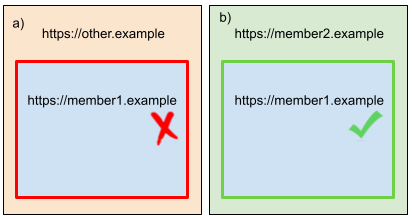
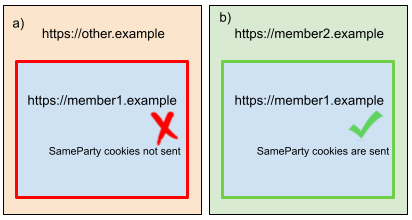
Remove mentions of storage; format URLs; tweak image.

Changed region(s): [[0.6117, 0.6545, 0.9612, 0.7091], [0.1165, 0.6545, 0.4369, 0.7091]]

diff --git a/README.md b/README.md
@@ -120,17 +120,19 @@ First-Party Sets is a proposal to standardize a mechanism that solves this issue
 In support of the various browser privacy models, first-party sets only control when embedded content that would otherwise be considered third-party can access its own state. Examples:
 
 -   Sites may annotate individual cookies to be sent across same-party, cross-domain contexts by using the proposed [SameParty cookie attribute](https://github.com/cfredric/sameparty).
--   An iframe’s access to its own storage should be allowed when embedded on a site within the same first-party set. For example, this would allow a `https://b.example` iframe within `https://a.example` to access its own `https://b.example` databases, which would otherwise be restricted.
 
 To illustrate the above use cases, we'll suppose that https://member1.example and https://member2.example are in the same first-party set, and consider the following two pages.
 
 ![Cross-party and same-party embeddings](images/party_embeddings.png)
 
-The first page, case *a*, is hosted on a third-party domain (https://other.example) and embeds an iframe from https://member1.example. We say that this iframe is in a *cross-party context*, since the top-level frame's domain is not in the same first-party set as the embedded iframe's domain. The second page, case *b*, is hosted on https://member2.example, and also embeds an iframe from https://member1.example. We say that this iframe is in a *same-party context*, since the top-level frame's domain is in the same first-party set as the iframe's domain. The aforementioned uses of first-party sets aim to grant a site access to its own state (e.g. cookies or storage) when in a same-party context (case *b*), while blocking access when in a cross-party context (case *a*).
+On browsers where cross-site tracking protections are enabled, the first page, case *a*, is hosted on a third-party domain (`https://other.example`) and embeds an iframe from `https://member1.example`. We say that this iframe is in a *cross-party context*, since the top-level frame's domain is not in the same first-party set as the embedded iframe's domain. The second page, case *b*, is hosted on `https://member2.example`, and also embeds an iframe from `https://member1.example`. We say that this iframe is in a *same-party context*, since the top-level frame's domain is in the same first-party set as the iframe's domain. The aforementioned uses of first-party sets aim to grant a site access to its own state (e.g. cookies) when in a same-party context (case *b*), while blocking access when in a cross-party context (case *a*).
 
-Note that First-Party Sets does *not* grant access to one domain's state to any other domain, regardless of the context, in this example. I.e., neither https://other.example nor https://member2.example ever have access to https://member1.example's cookies or storage.
+* In case *a*, `https://member1.example`'s `SameParty` cookie is *not* sent in the iframe's subresource request, since the iframe is in a cross-party context.
+* In case *b*, `https://member1.example`'s `SameParty` cookie *is* sent in the iframe's subresource request, since the iframe is in a same-party context.
 
-The above example (where access to a domain's own cookies/storage is granted when embedded in certain domains, but is disallowed when embedded in others) is not possible without a proposal like First-Party Sets.
+Note that First-Party Sets does *not* grant access to one domain's state to any other domain, regardless of the context, in this example. I.e., neither `https://other.example` nor `https://member2.example` ever have access to `https://member1.example`'s cookies.
+
+The above example (where access to a domain's own cookies is granted when embedded in certain domains, but is disallowed when embedded in others) is not possible without a proposal like First-Party Sets.
 
 ---
 
